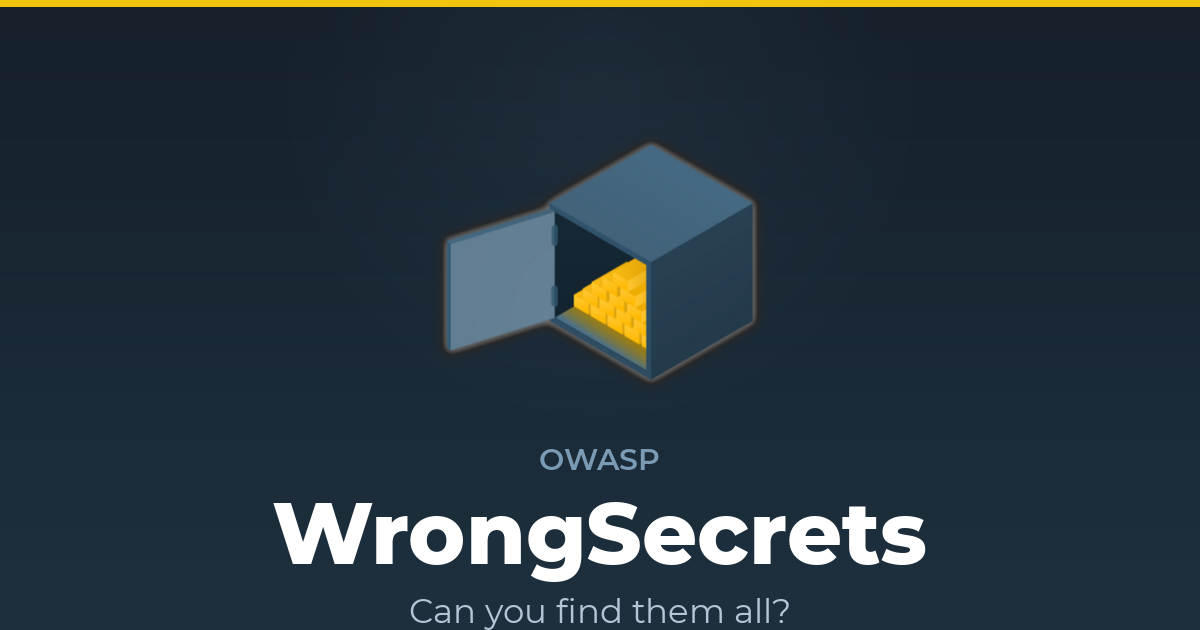
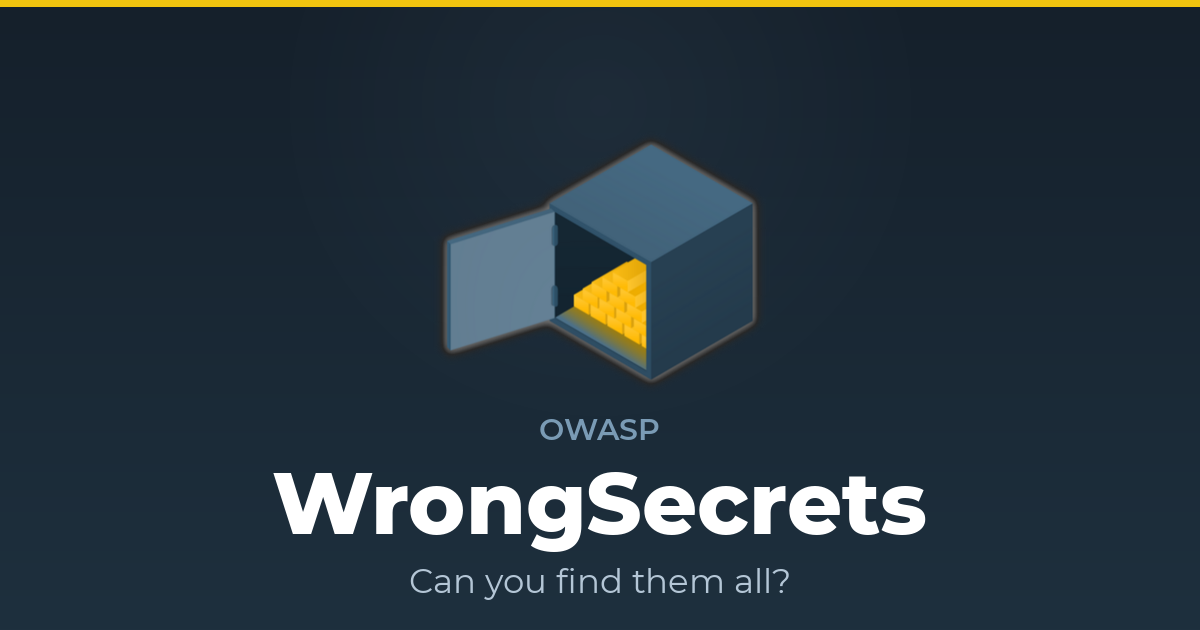
fix(og): lift text block for bottom margin, move generator to scripts/
- Shift OWASP/WrongSecrets/tagline up ~30px so the tagline keeps a
  comfortable 30px bottom margin (maintainer feedback: card was crowded
  at the bottom, tagline nearly touched the 630px edge).
- Relocate tools/gen-og-image.py -> scripts/gen-og-image.py per
  maintainer request; output path logic unchanged (repo-root relative).
- Regenerate src/main/resources/static/img/og-image.png from the moved
  script.

Refs: PR #2768

Changed region(s): [[0.2158, 0.6635, 0.7708, 1.0]]

diff --git a/scripts/gen-og-image.py b/scripts/gen-og-image.py
@@ -182,18 +182,20 @@ def main() -> None:
     logo_y = 92
     bg.alpha_composite(logo_scaled, (logo_x, logo_y))
 
-    # Wordmark
+    # Wordmark — text block sits ~30px higher than the original draft so the
+    # tagline keeps a comfortable bottom margin (maintainer feedback: card was
+    # crowded at the bottom, tagline nearly touched the 630px edge).
     f_eyebrow = load_font("semi_bold", 30)
     f_title = load_font("extra_bold", 86)
     f_tag = load_font("regular", 34)
 
-    x, y = draw_centered(draw, 440, "OWASP", f_eyebrow, BRAND_LIGHT_BLUE)
+    x, y = draw_centered(draw, 410, "OWASP", f_eyebrow, BRAND_LIGHT_BLUE)
     draw.text((x, y), "OWASP", font=f_eyebrow, fill=BRAND_LIGHT_BLUE)
 
-    x, y = draw_centered(draw, 480, "WrongSecrets", f_title, WHITE)
+    x, y = draw_centered(draw, 450, "WrongSecrets", f_title, WHITE)
     draw.text((x, y), "WrongSecrets", font=f_title, fill=WHITE)
 
-    x, y = draw_centered(draw, 590, "Can you find them all?", f_tag, LIGHT_GREY)
+    x, y = draw_centered(draw, 560, "Can you find them all?", f_tag, LIGHT_GREY)
     draw.text((x, y), "Can you find them all?", font=f_tag, fill=LIGHT_GREY)
 
     out_path.parent.mkdir(parents=True, exist_ok=True)
